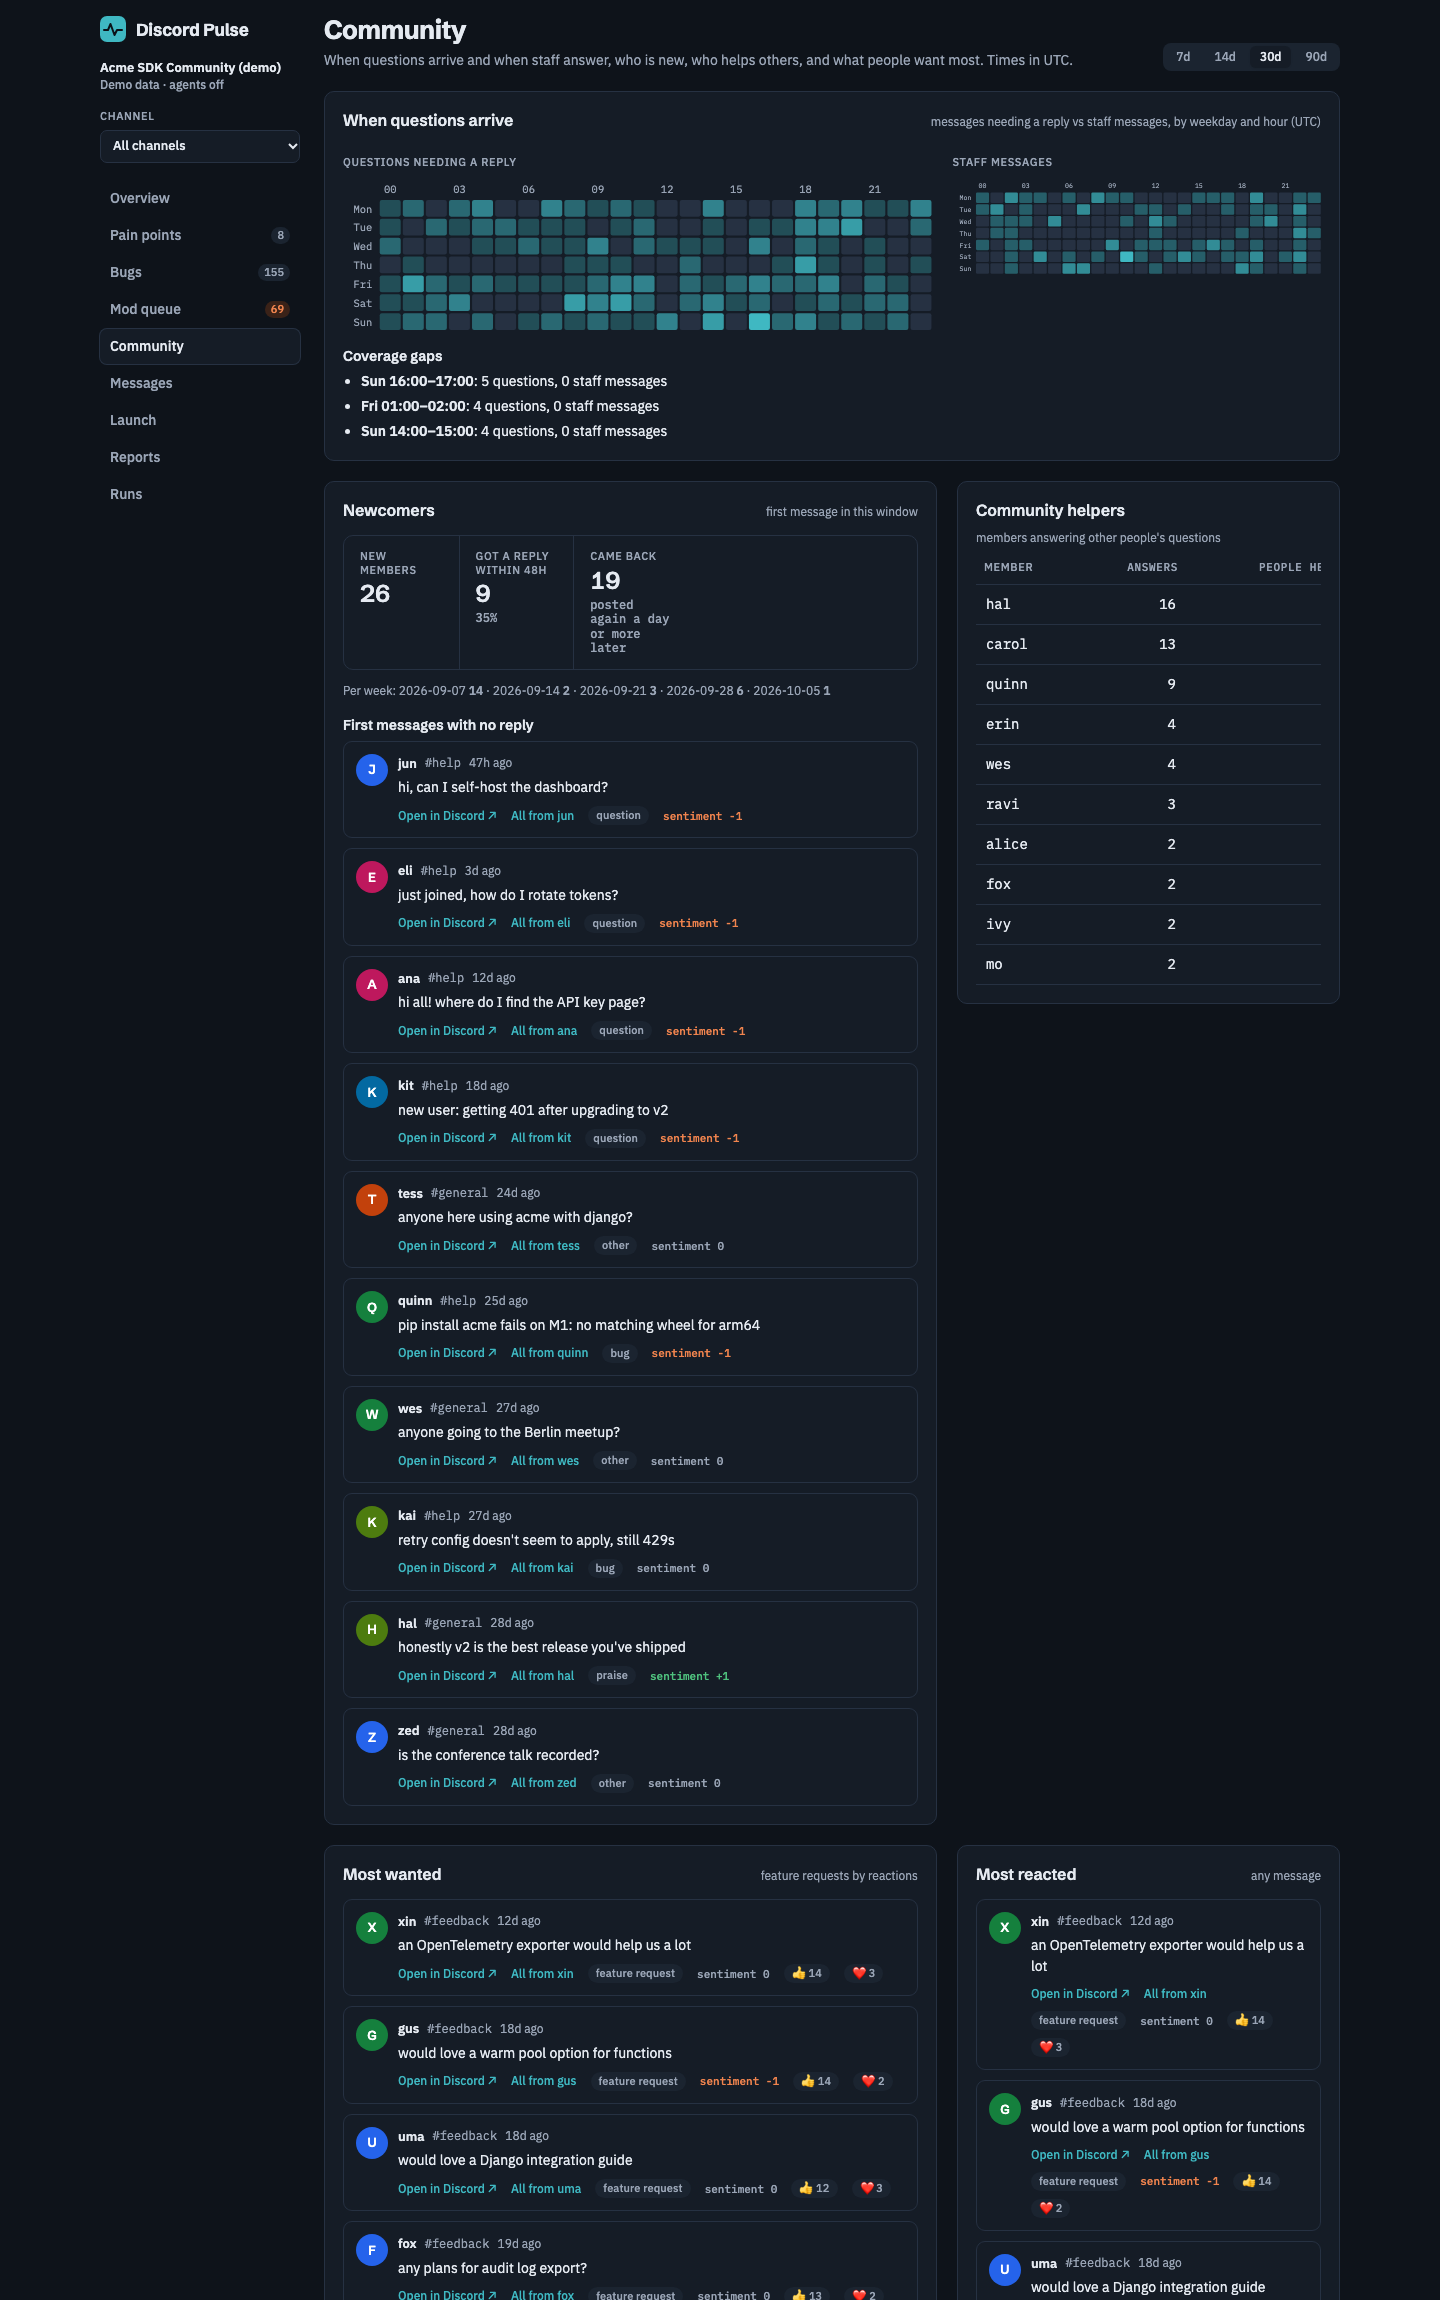
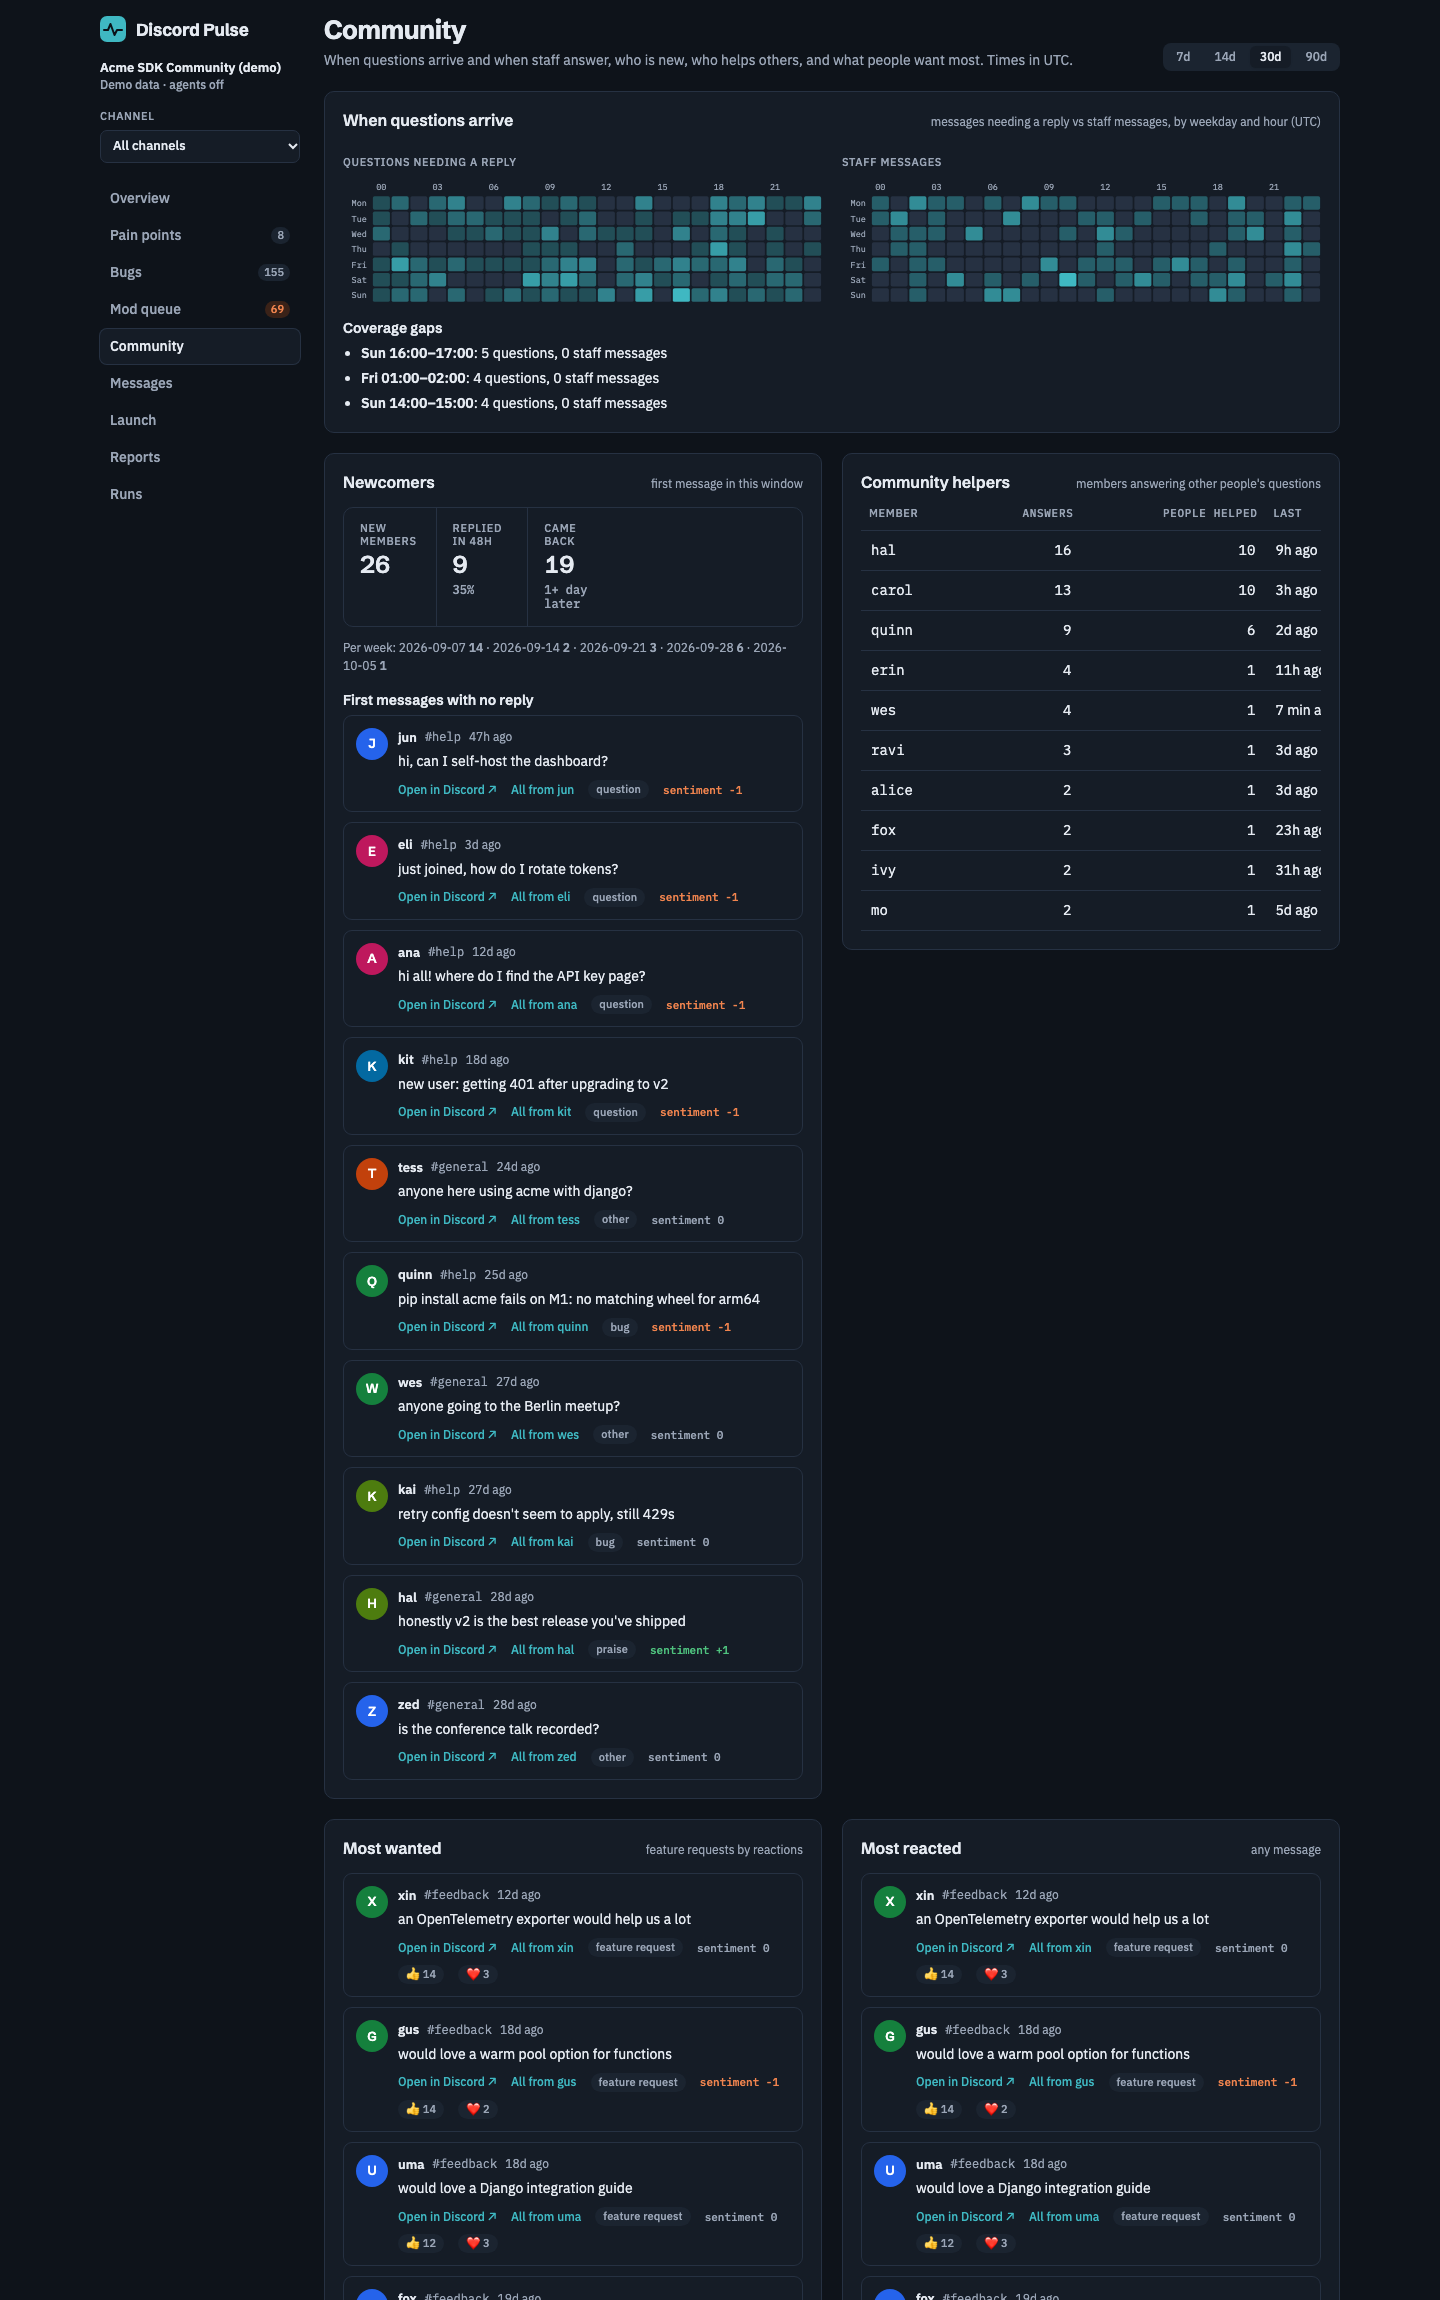
fix: equal-width Community columns and tighter labels; retake screenshot

diff --git a/pulse/web/templates/community.html b/pulse/web/templates/community.html
@@ -9,7 +9,7 @@
 
 <section class="panel">
   <div class="panel-head"><h2>When questions arrive</h2><span class="note">messages needing a reply vs staff messages, by weekday and hour ({{ tz }})</span></div>
-  <div class="grid2">
+  <div class="pair">
     <div><p class="label">Questions needing a reply</p>{{ heat_questions }}</div>
     <div><p class="label">Staff messages</p>{{ heat_staff }}</div>
   </div>
@@ -19,14 +19,14 @@
   {% else %}<p class="empty">No questions in this window.</p>{% endif %}
 </section>
 
-<div class="grid2">
+<div class="pair">
   <section class="panel">
     <div class="panel-head"><h2>Newcomers</h2><span class="note">first message in this window</span></div>
     {% if nc.count %}
     <div class="strip">
       <div class="stat"><span class="label">New members</span><span class="big">{{ nc.count }}</span></div>
-      <div class="stat"><span class="label">Got a reply within 48h</span><span class="big">{{ nc.replied }}</span><span class="delta mut">{{ (nc.replied * 100 / nc.count)|round|int }}%</span></div>
-      <div class="stat"><span class="label">Came back</span><span class="big">{{ nc.returned }}</span><span class="delta mut">posted again a day or more later</span></div>
+      <div class="stat"><span class="label">Replied in 48h</span><span class="big">{{ nc.replied }}</span><span class="delta mut">{{ (nc.replied * 100 / nc.count)|round|int }}%</span></div>
+      <div class="stat"><span class="label">Came back</span><span class="big">{{ nc.returned }}</span><span class="delta mut">1+ day later</span></div>
     </div>
     <p class="pmeta">Per week: {% for w in nc.weekly %}{{ w.week }} <b>{{ w.count }}</b>{% if not loop.last %} · {% endif %}{% endfor %}</p>
     <h3>First messages with no reply</h3>
@@ -38,7 +38,7 @@
     <div class="panel-head"><h2>Community helpers</h2><span class="note">members answering other people's questions</span></div>
     {% if helpers %}
     <div class="tbl-wrap"><table class="chan">
-      <thead><tr><th>Member</th><th class="num">Answers</th><th class="num">People helped</th><th>Last answer</th></tr></thead>
+      <thead><tr><th>Member</th><th class="num">Answers</th><th class="num">People helped</th><th>Last</th></tr></thead>
       <tbody>{% for h in helpers %}<tr>
         <td><a href="/messages{{ f.qs(author_id=h.author_id) }}">{{ h.author_name }}</a></td>
         <td class="num">{{ h.answers }}</td><td class="num">{{ h.helped }}</td><td>{{ h.last_at|age(now) }}</td>
@@ -48,7 +48,7 @@
   </section>
 </div>
 
-<div class="grid2">
+<div class="pair">
   <section class="panel">
     <div class="panel-head"><h2>Most wanted</h2><span class="note">feature requests by reactions</span></div>
     <div class="msgs">{% for w in wanted %}{% call message_card(w.card, now, f) %}{% for e, n in w.emojis %}<span class="pill kind react">{{ e }} {{ n }}</span>{% endfor %}{% endcall %}{% else %}<p class="empty">No feature requests with reactions in this window.</p>{% endfor %}</div>

diff --git a/pulse/web/static/pulse.css b/pulse/web/static/pulse.css
@@ -207,3 +207,5 @@ a.pname{display:block}
 .react{font-variant-numeric:tabular-nums}
 .panel h3{font:600 14px/1.3 var(--display);margin:16px 0 6px}
 .gaps{margin:0;padding-left:18px;display:flex;flex-direction:column;gap:4px}
+.pair{display:grid;grid-template-columns:minmax(0,1fr) minmax(0,1fr);gap:20px;align-items:start}
+@media (max-width:1040px){.pair{grid-template-columns:minmax(0,1fr)}}
